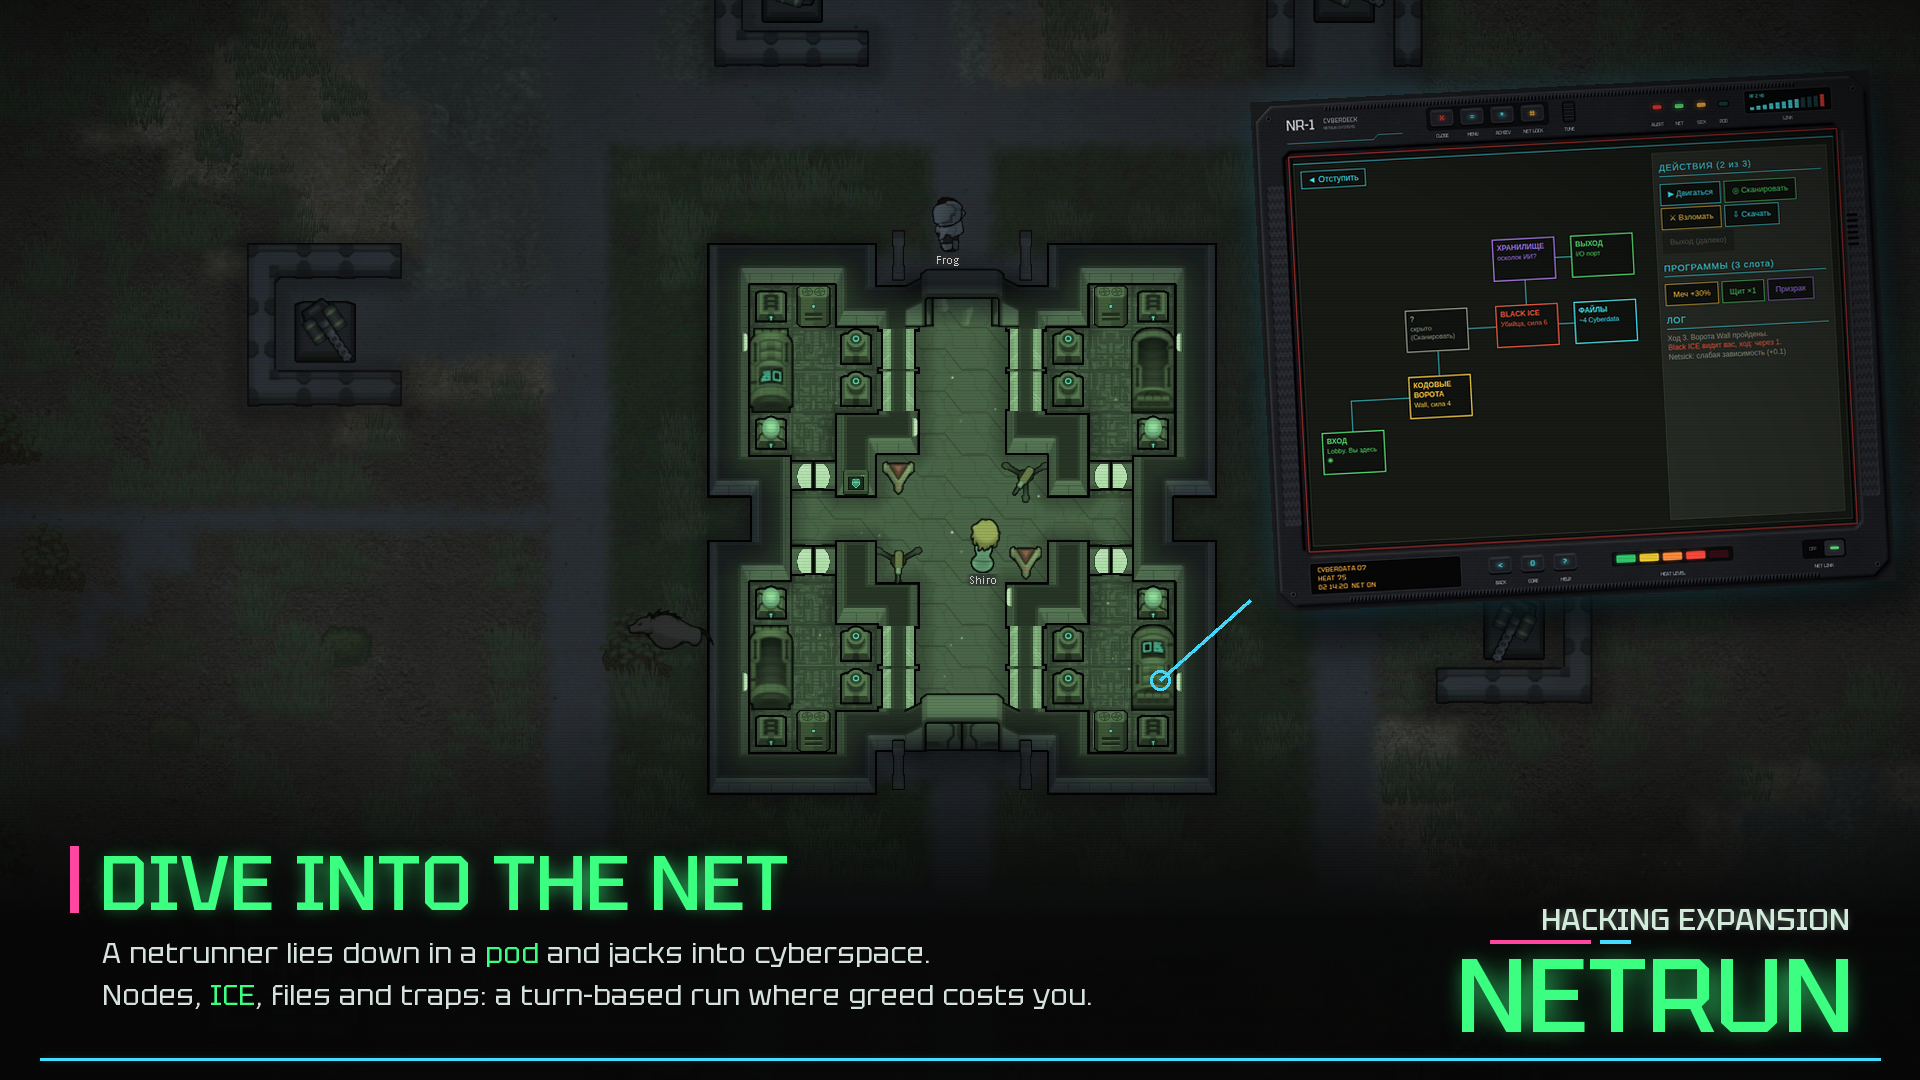
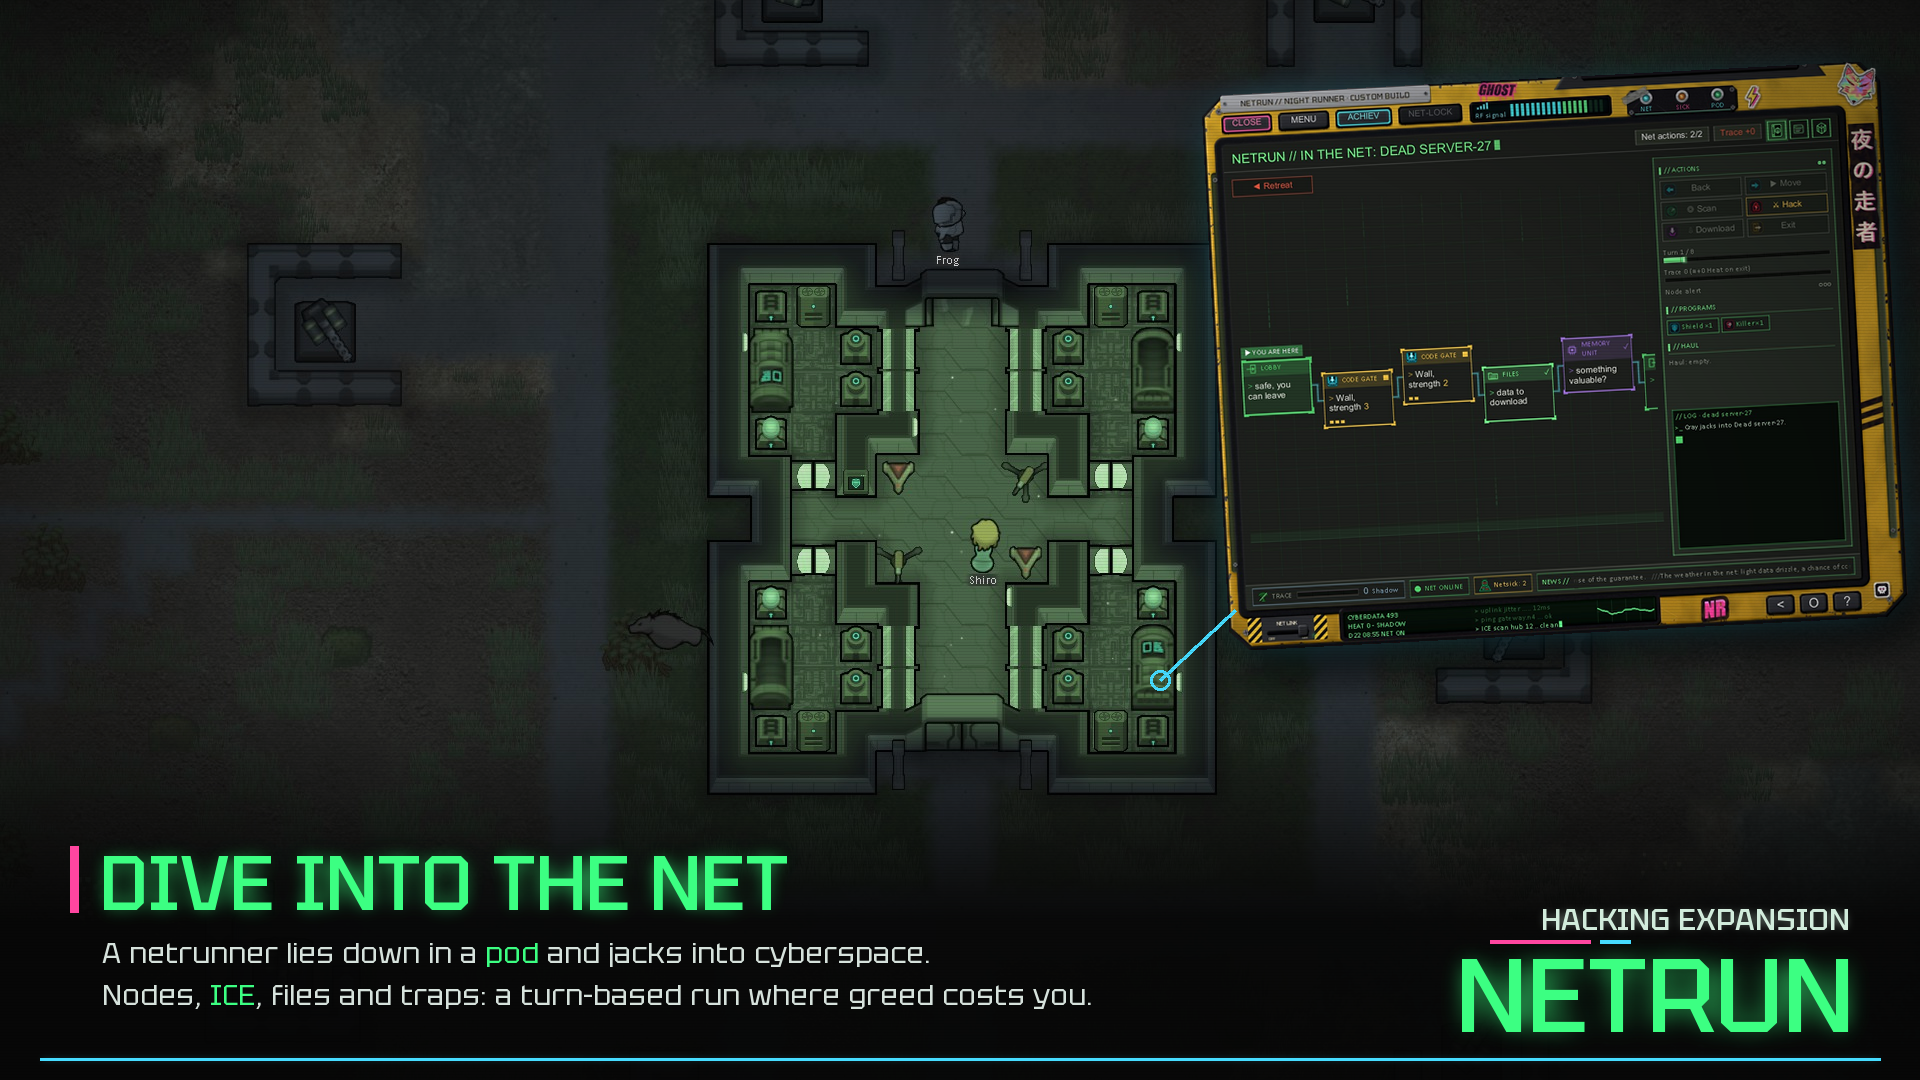
Steam previews in English from in-game terminal screenshots (corners cleaned, dev line hidden)

Changed region(s): [[0.625, 0.0611, 1.0, 0.6111]]

diff --git a/tools/gen_steam_previews.py b/tools/gen_steam_previews.py
@@ -5,7 +5,7 @@ the corner, scanlines and a neon rule along the bottom edge.
 Sources: game screenshots from the Preview folder outside the repo (`--src`, default the Reserve path) and the frame and
 UI mockups in docs/. Writes docs/steam/previews/<lang>_<name>.png (and a 960 x 540 copy for a quick look).
 
-    python tools/gen_steam_previews.py [--lang ru|en] [--only terminal,cyberspace,club]
+    python tools/gen_steam_previews.py [--lang en|ru] [--only terminal,cyberspace,club]
 """
 import os
 import random
@@ -19,6 +19,7 @@ SRC = r"G:\Modding\RimWorld\Hacking Expansion Netrun\Preview"
 OUT = os.path.join(ROOT, "docs", "steam", "previews")
 MOCK = os.path.join(ROOT, "docs", "mockups")
 UI = os.path.join(ROOT, "docs", "ui-mockups")
+SHOTS = os.path.join(ROOT, "docs", "steam", "shots")   # in-game terminal screenshots (Maxim, 2026-10-16)
 FONT = os.path.join(ROOT, "tools", "fonts", "Tektur-Medium.ttf")
 FONT_REG = os.path.join(ROOT, "tools", "fonts", "Tektur-Regular.ttf")
 W, H = 1920, 1080
@@ -68,6 +69,27 @@ def framed(frame_name, ui_name, width):
     fr.alpha_composite(hole)
     k = width / fr.width
     return fr.resize((width, round(fr.height * k)), Image.LANCZOS)
+
+
+def shot(name, width):
+    """An in-game terminal screenshot, scaled to `width`, with the bits of map showing past the casing's rounded or cut
+    corners made transparent: each corner is flooded by similarity from its outermost pixel, within a 110 px box."""
+    img = Image.open(os.path.join(SHOTS, name + ".jpg")).convert("RGB")
+    w, h = img.size
+    alpha = np.full((h, w), 255, np.uint8)
+    n = 110
+    for cx, cy in ((0, 0), (w - 1, 0), (0, h - 1), (w - 1, h - 1)):
+        work = img.copy()
+        ImageDraw.floodfill(work, (cx, cy), (255, 0, 254), thresh=26)
+        a = np.array(work)
+        hit = (a[..., 0] == 255) & (a[..., 1] == 0) & (a[..., 2] == 254)
+        box = np.zeros_like(hit)
+        box[max(0, cy - n):cy + n, max(0, cx - n):cx + n] = True
+        if (hit & box).sum() < n * n * 0.45:   # a casing as dark as the map would flood half the box: leave it
+            alpha[hit & box] = 0
+    out = img.convert("RGBA")
+    out.putalpha(Image.fromarray(alpha).filter(ImageFilter.MinFilter(3)))
+    return out.resize((width, round(h * width / w)), Image.LANCZOS)
 
 
 def shadowed(base, img, xy, angle=0.0, glow=None):
@@ -155,7 +177,7 @@ TEXT = {
         "terminal": ("Терминал сети", [
             "Ядро, шлюз, клуб, студия и справка в одном окне.",
             "*Восемь корпусов* терминала: от корпоративного Kurenai до студии брейнданса.",
-            "Новые рамки открываются достижениями."]),
+            "Новые корпуса открываются по ходу игры."]),
         "cyberspace": ("Нырки в сеть", [
             "Нетраннер ложится в *капсулу* и уходит в киберпространство.",
             "Узлы, *ICE*, файлы и ловушки: пошаговый забег, где жадность стоит дорого."]),
@@ -168,7 +190,7 @@ TEXT = {
         "terminal": ("The net terminal", [
             "Core, gateway, club, studio and help in one window.",
             "*Eight terminal decks*, from the corporate Kurenai to a braindance studio.",
-            "New frames unlock with achievements."]),
+            "New decks unlock as you play."]),
         "cyberspace": ("Dive into the net", [
             "A netrunner lies down in a *pod* and jacks into cyberspace.",
             "Nodes, *ICE*, files and traps: a turn-based run where greed costs you."]),
@@ -182,36 +204,30 @@ TEXT = {
 
 def p_terminal(lang, src):
     img = darken(cover(Image.open(os.path.join(src, "киберпространство и нырки.jpg")).convert("RGBA")), 0.35, blur=6)
-    decks = [("48d-relic-column-v3.png", "6-contracts-board.png", 600, -4, (300, 30)),
-             ("49-studio.png", "4-club-contacts.png", 600, 4, (1010, 30)),
-             ("42d-retro.png", "10-heat-v2.png", 620, -7, (30, 220)),
-             ("38-nomad.png", "3-dive.png", 620, 6, (1250, 210)),
-             ("39-kurenai.png", "1-core-map.png", 820, 0, (550, 90))]
-    for frame, ui, width, ang, xy in decks:
-        shadowed(img, framed(frame, ui, width), xy, ang, glow=GREEN if frame.startswith("39") else None)
+    cards = [("retro_board", 600, -4, (300, 20)),
+             ("kurenai_studio", 600, 4, (1020, 20)),
+             ("nomad_heat", 600, -7, (20, 220)),
+             ("nr80_gateway", 600, 6, (1280, 200)),
+             ("street_core", 760, 0, (580, 60))]
+    for name, width, ang, xy in cards:
+        shadowed(img, shot(name, width), xy, ang, glow=GREEN if name == "street_core" else None)
     return overlay(img, *TEXT[lang]["terminal"])
 
 
 def p_cyberspace(lang, src):
-    img = cover(Image.open(os.path.join(src, "киберпространство и нырки.jpg")).convert("RGBA"))
-    img = darken(img, 0.9)
-    f = framed("46b-classic-cyberdeck.png", "3-dive.png", 620)
-    shadowed(img, f, (1250, 70), 3, glow=CYAN)
-    # a thin link from the pod to the screen
+    img = darken(cover(Image.open(os.path.join(src, "киберпространство и нырки.jpg")).convert("RGBA")), 0.9)
+    shadowed(img, shot("street_dive", 680), (1200, 60), 3, glow=CYAN)
     d = ImageDraw.Draw(img)
-    d.line([(1160, 680), (1250, 600)], fill=CYAN + (200,), width=3)
+    d.line([(1160, 680), (1235, 610)], fill=CYAN + (200,), width=3)
     d.ellipse((1150, 670, 1170, 690), outline=CYAN + (255,), width=3)
     return overlay(img, *TEXT[lang]["cyberspace"])
 
 
 def p_club(lang, src):
     img = darken(cover(Image.open(os.path.join(src, "квесты.jpg")).convert("RGBA")), 0.35, blur=8)
-    corps = window("29-club-v2.png", (20, 20, 920, 760), 760, PINK)
-    crews = window("29-club-v2.png", (960, 20, 1860, 760), 760, CYAN)
-    shadowed(img, corps, (50, 110), 4, glow=PINK)
-    shadowed(img, crews, (1110, 100), -4, glow=CYAN)
-    f = framed("38a-street-crt.png", "4-club-contacts.png", 720)
-    shadowed(img, f, (600, 40), 0, glow=GREEN)
+    shadowed(img, shot("studio_corps", 660), (40, 110), 5, glow=PINK)
+    shadowed(img, shot("studio_crews", 660), (1210, 100), -5, glow=CYAN)
+    shadowed(img, shot("studio_fixers", 760), (580, 30), 0, glow=GREEN)
     return overlay(img, *TEXT[lang]["club"])
 
 
@@ -219,7 +235,7 @@ PREVIEWS = {"terminal": p_terminal, "cyberspace": p_cyberspace, "club": p_club}
 
 
 def main():
-    lang = sys.argv[sys.argv.index("--lang") + 1] if "--lang" in sys.argv else "ru"
+    lang = sys.argv[sys.argv.index("--lang") + 1] if "--lang" in sys.argv else "en"
     src = sys.argv[sys.argv.index("--src") + 1] if "--src" in sys.argv else SRC
     only = sys.argv[sys.argv.index("--only") + 1].split(",") if "--only" in sys.argv else list(PREVIEWS)
     os.makedirs(OUT, exist_ok=True)
